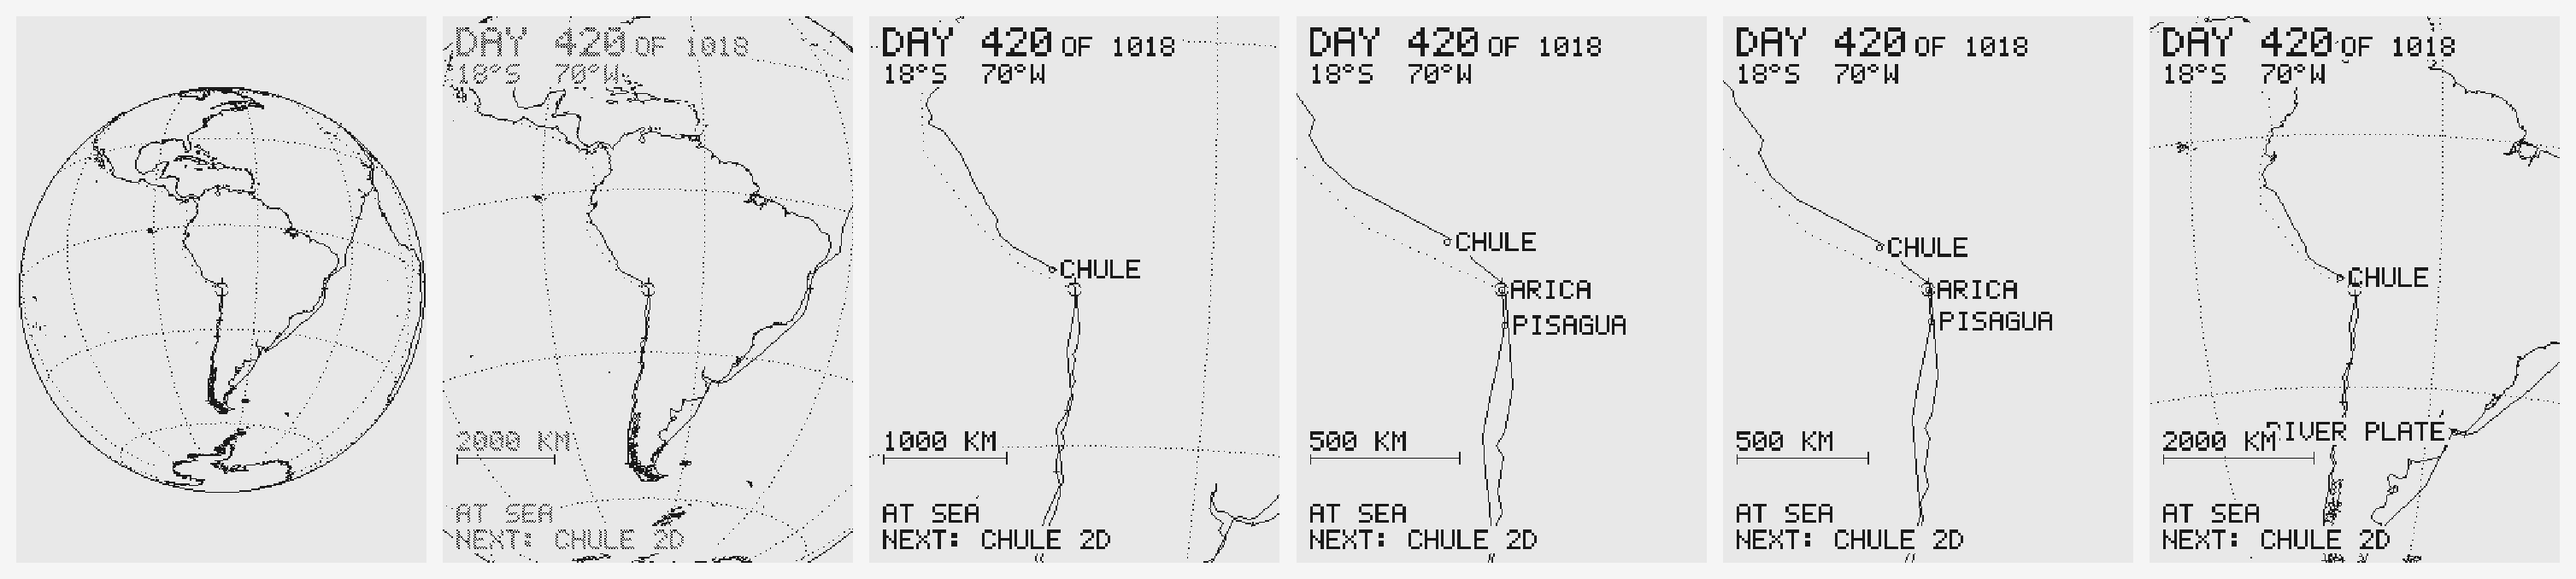
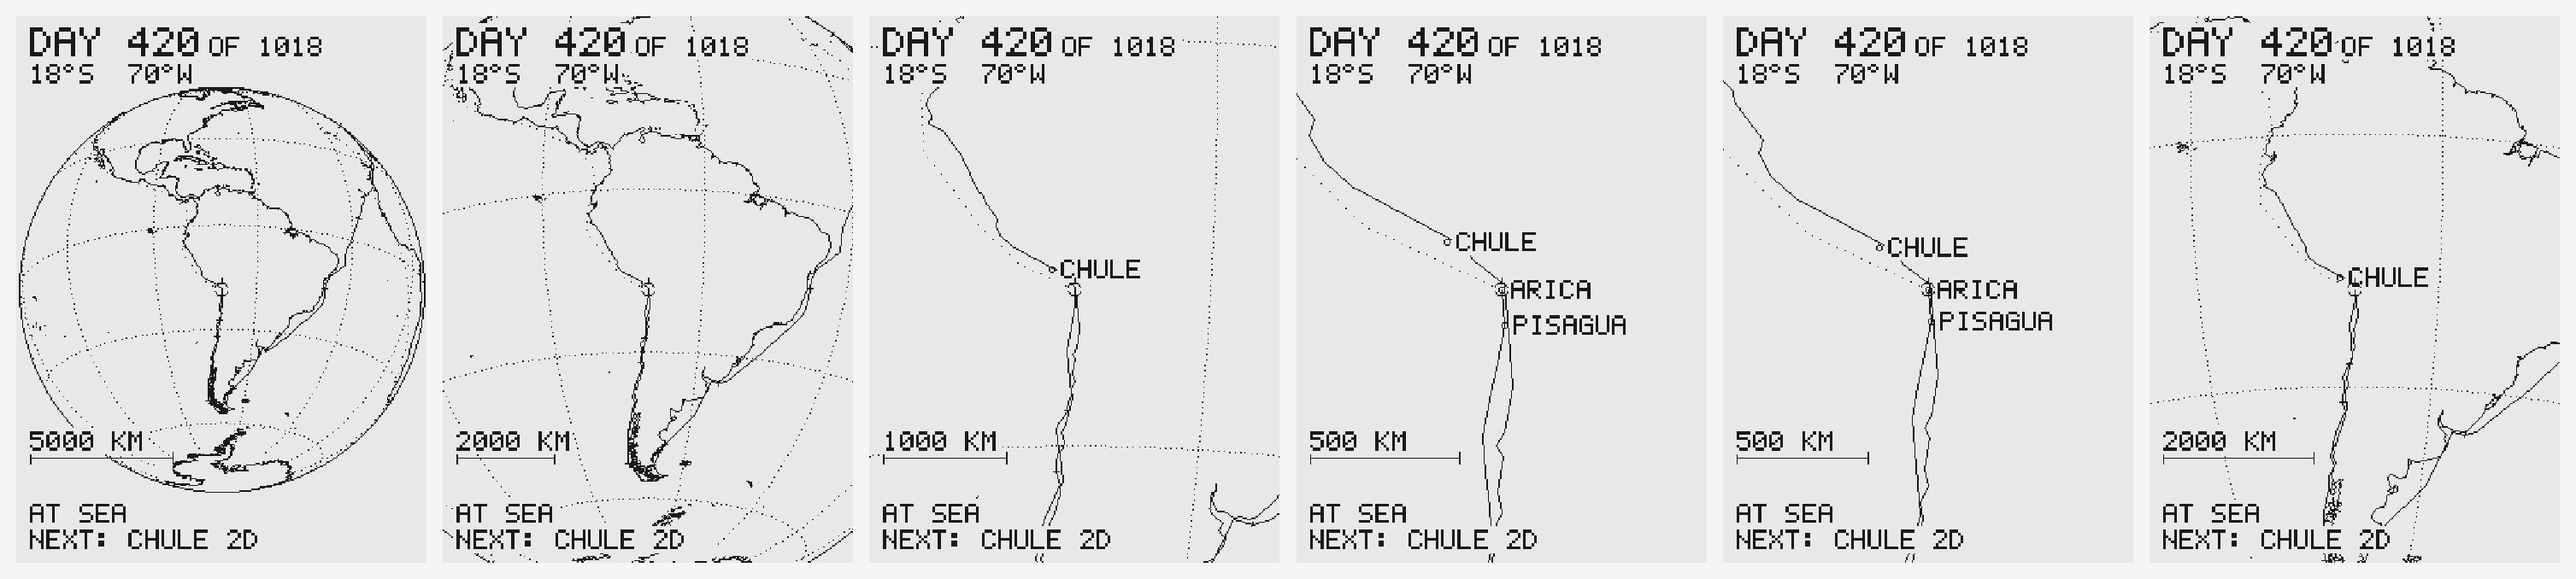
The globe keeps its caption; only the place names wait for the zoom
chrome_alpha governs the place names and nothing else now. The day, the
position, the status and the scale bar are solid at every zoom, because they
answer "where is the ship and how far through is this" and that question is
exactly as live on the globe as it is at chart scale.

Applying the fade to those as well made the opening shot beautifully clean
and also made it say nothing, which is a poor trade on a screen that is up
for three seconds.

Claude-Session: https://claude.ai/code/session_018pPHydpRzJRcbhBZ1EmMSS

diff --git a/mapview.py b/mapview.py
@@ -270,13 +270,18 @@ NORTH_UP = True
 
 
 def chrome_alpha(R):
-    """How solidly the writing is drawn at this zoom.
+    """How solidly the PLACE NAMES are drawn at this zoom.
 
-    Nothing on the globe, fully on by a third of the way in. The words arrive
-    through the ordered dither as the camera moves, so the chart resolves
-    into being labelled rather than having a caption dropped on it -- and the
-    opening three seconds of Earth stay clean, which is the whole reason for
-    opening on it."""
+    Nothing on the globe, fully on by a third of the way in. The names arrive
+    through the ordered dither as the camera moves, so the chart resolves into
+    being labelled rather than having a legend dropped on it.
+
+    This governs the names and nothing else. The day, the position, the status
+    and the scale bar are drawn solid at every zoom: they answer "where is the
+    ship and how far through is this" and that question is exactly as live on
+    the globe as it is at chart scale. It was briefly applied to those too,
+    which made the opening shot beautifully clean and also made it say
+    nothing."""
     f = (math.log(max(R, 1.0)) - math.log(R_GLOBE)) / \
         (math.log(R_CHART) - math.log(R_GLOBE))
     return max(0.0, min(1.0, (f - 0.05) / 0.28))
@@ -366,13 +371,12 @@ def render_map(canvas, coast, track, day, R, chrome=True, w=W, h=H):
     coast.draw(canvas, cam, w, h)
     draw_limb(canvas, cam, w, h)
     draw_track(canvas, track, cam, day, w, h)
-    a = chrome_alpha(R)
     if chrome:
-        draw_places(canvas, cam, track, day, R, w, h, a)
+        draw_places(canvas, cam, track, day, R, w, h, chrome_alpha(R))
     draw_ship(canvas, cam, w, h)
-    if chrome and a > 0.02:
-        draw_scale(canvas, cam, w, h, a)
-        draw_caption(canvas, track, day, w, h, a)
+    if chrome:
+        draw_scale(canvas, cam, w, h)
+        draw_caption(canvas, track, day, w, h)
     return cam
 
 
